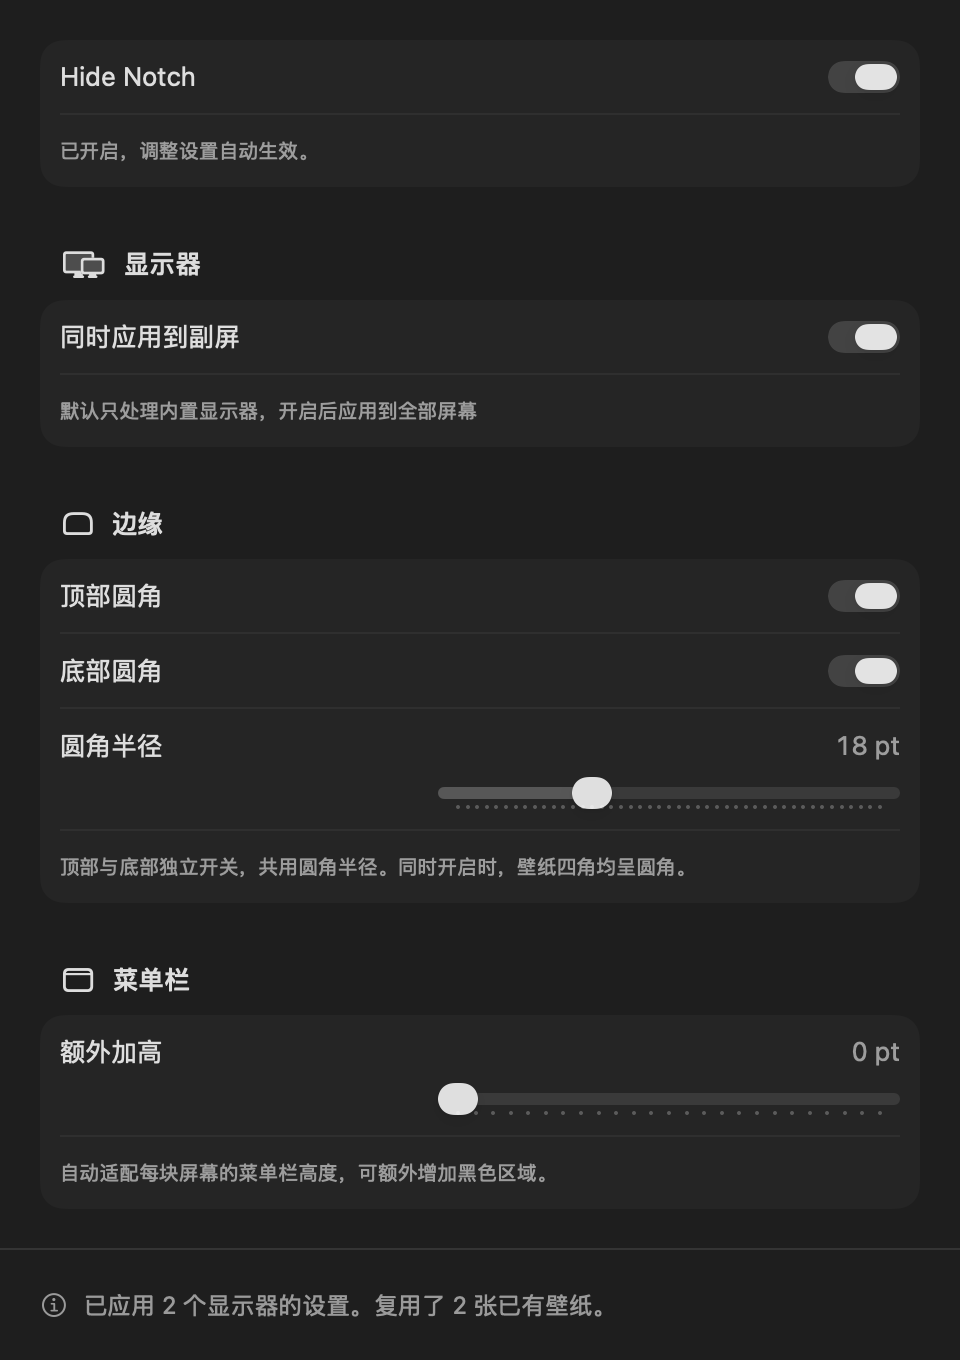
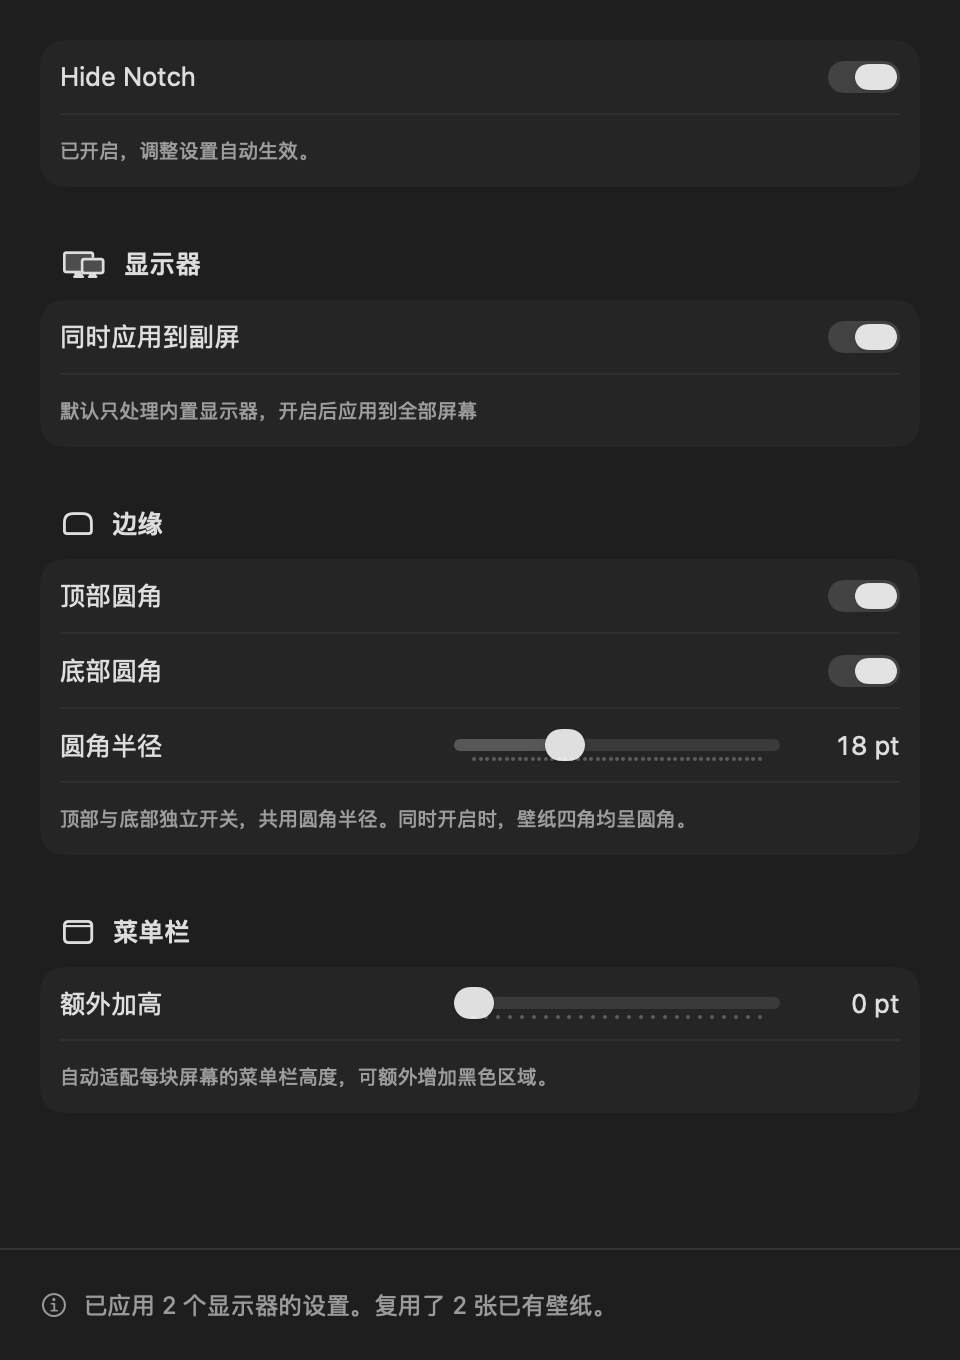
Keep slider labels and values on a single row

diff --git a/Sources/NotchHide/SettingsView.swift b/Sources/NotchHide/SettingsView.swift
@@ -48,11 +48,14 @@ struct SettingsView: View {
                         .toggleStyle(.switch)
                     Toggle("底部圆角", isOn: $model.settings.bottomRoundedCorners)
                         .toggleStyle(.switch)
-                    VStack(alignment: .leading, spacing: 8) {
-                        LabeledContent("圆角半径", value: "\(Int(model.settings.cornerRadius)) pt")
-                            .monospacedDigit()
+                    // 名称、滑块和数值保持同一行，固定数值宽度以免拖动时滑块跳动。
+                    HStack(spacing: 12) {
+                        Text("圆角半径").fixedSize()
                         Slider(value: $model.settings.cornerRadius, in: 4...48, step: 1)
                             .accessibilityLabel("圆角半径")
+                        Text("\(Int(model.settings.cornerRadius)) pt")
+                            .monospacedDigit().lineLimit(1)
+                            .frame(width: 48, alignment: .trailing)
                     }
                     .disabled(!model.settings.roundedCorners && !model.settings.bottomRoundedCorners)
                     Text("顶部与底部独立开关，共用圆角半径。同时开启时，壁纸四角均呈圆角。")
@@ -61,11 +64,13 @@ struct SettingsView: View {
                     Label("边缘", systemImage: "rectangle.roundedtop")
                 }
                 Section {
-                    VStack(alignment: .leading, spacing: 8) {
-                        LabeledContent("额外加高", value: "\(Int(model.settings.extraHeight)) pt")
-                            .monospacedDigit()
+                    HStack(spacing: 12) {
+                        Text("额外加高").fixedSize()
                         Slider(value: $model.settings.extraHeight, in: 0...24, step: 1)
                             .accessibilityLabel("菜单栏额外加高")
+                        Text("\(Int(model.settings.extraHeight)) pt")
+                            .monospacedDigit().lineLimit(1)
+                            .frame(width: 48, alignment: .trailing)
                     }
                     Text("自动适配每块屏幕的菜单栏高度，可额外增加黑色区域。")
                         .font(.caption).foregroundStyle(.secondary)
